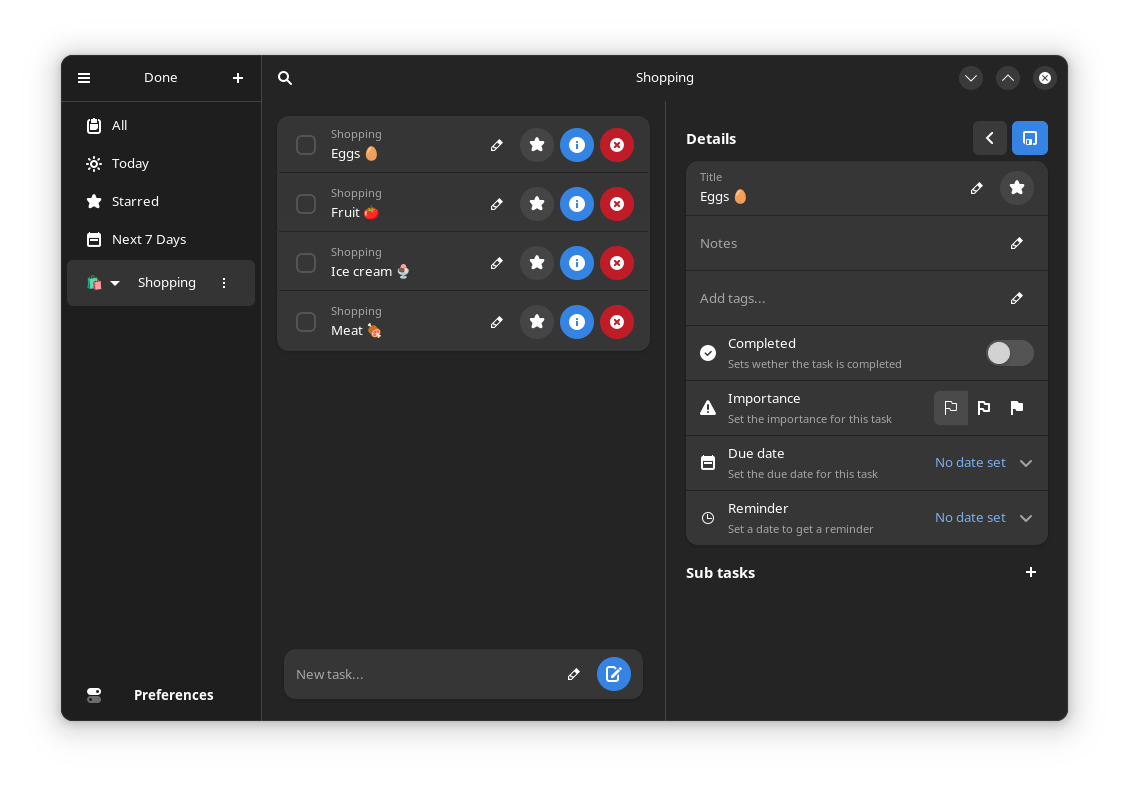
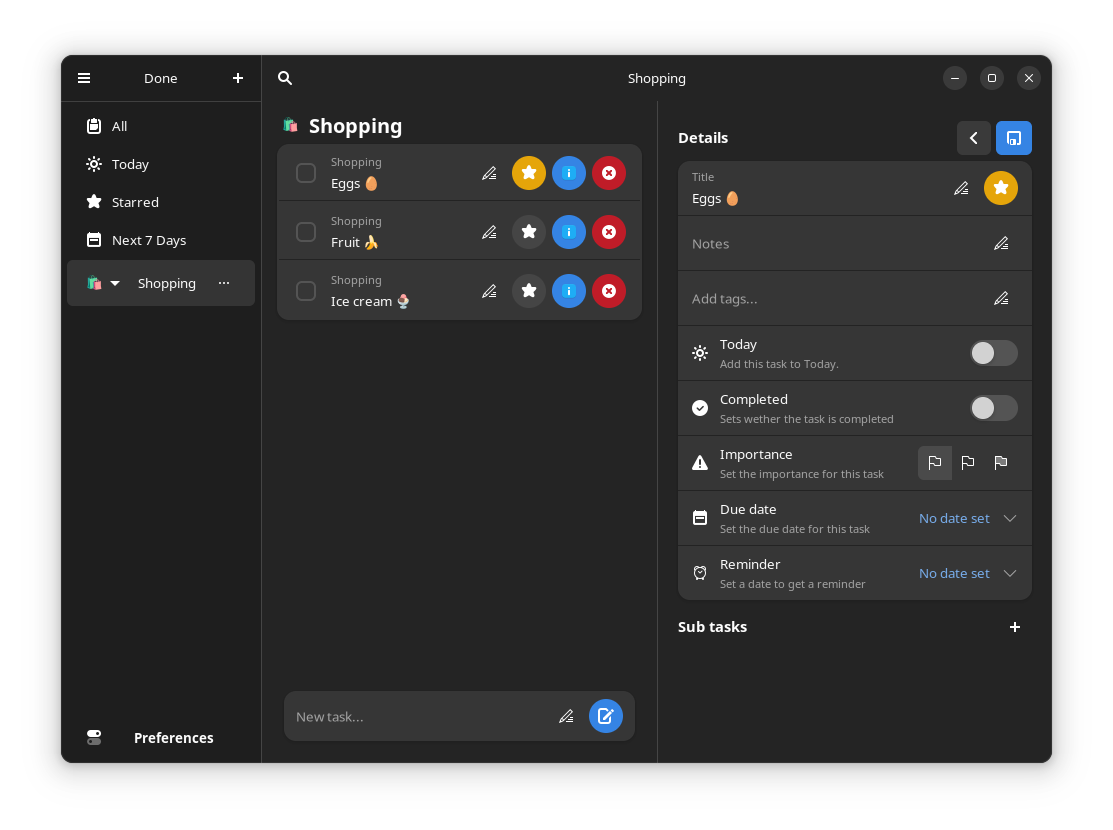
v0.1.6
- Updated screenshots

diff --git a/docs/index.html b/docs/index.html
@@ -101,7 +101,7 @@
       </a>
       <div class="grid place-content-center text-center">
         <div class="flex flex-wrap justify-center">
-          <a href="https://github.com/done-devs/done/releases/download/v0.1.5/dev.edfloreshz.Done.Devel.flatpak"
+          <a href="https://github.com/done-devs/done/releases/download/v0.1.6/dev.edfloreshz.Done.Devel.flatpak"
             class="warning dark:text-black text-xl font-bold mt-6 p-3 m-2 rounded-md">Install Development Version</a>
         </div>
         <div class="flex flex-wrap justify-center mt-6">

diff --git a/src/application/info.rs b/src/application/info.rs
@@ -1,10 +1,10 @@
 pub const APP_ID: &str = "dev.edfloreshz.Done";
 pub const GETTEXT_PACKAGE: &str = "done";
-pub const LOCALEDIR: &str = "/app/share/locale";
+pub const LOCALEDIR: &str = "/usr/local/share/locale";
 #[allow(dead_code)]
-pub const PKGDATADIR: &str = "/app/share/done";
+pub const PKGDATADIR: &str = "/usr/local/share/done";
 pub const PROFILE: &str = "";
 #[allow(dead_code)]
 pub const RESOURCES_FILE: &str =
-	concat!("/app/share/done", "/resources.gresource");
-pub const VERSION: &str = "0.1.5";
+	concat!("/usr/local/share/done", "/resources.gresource");
+pub const VERSION: &str = "0.1.6";

diff --git a/CHANGES.md b/CHANGES.md
@@ -2,6 +2,10 @@
 
 All notable changes to this project will be documented in this file.
 
+## [0.1.6] - 2023-05-17
+- Tasks pane now has a title and description.
+- Add to Today is now enabled.
+
 ## [0.1.5] - 2023-05-17
 - Striped down design.
 - More personalization options.
